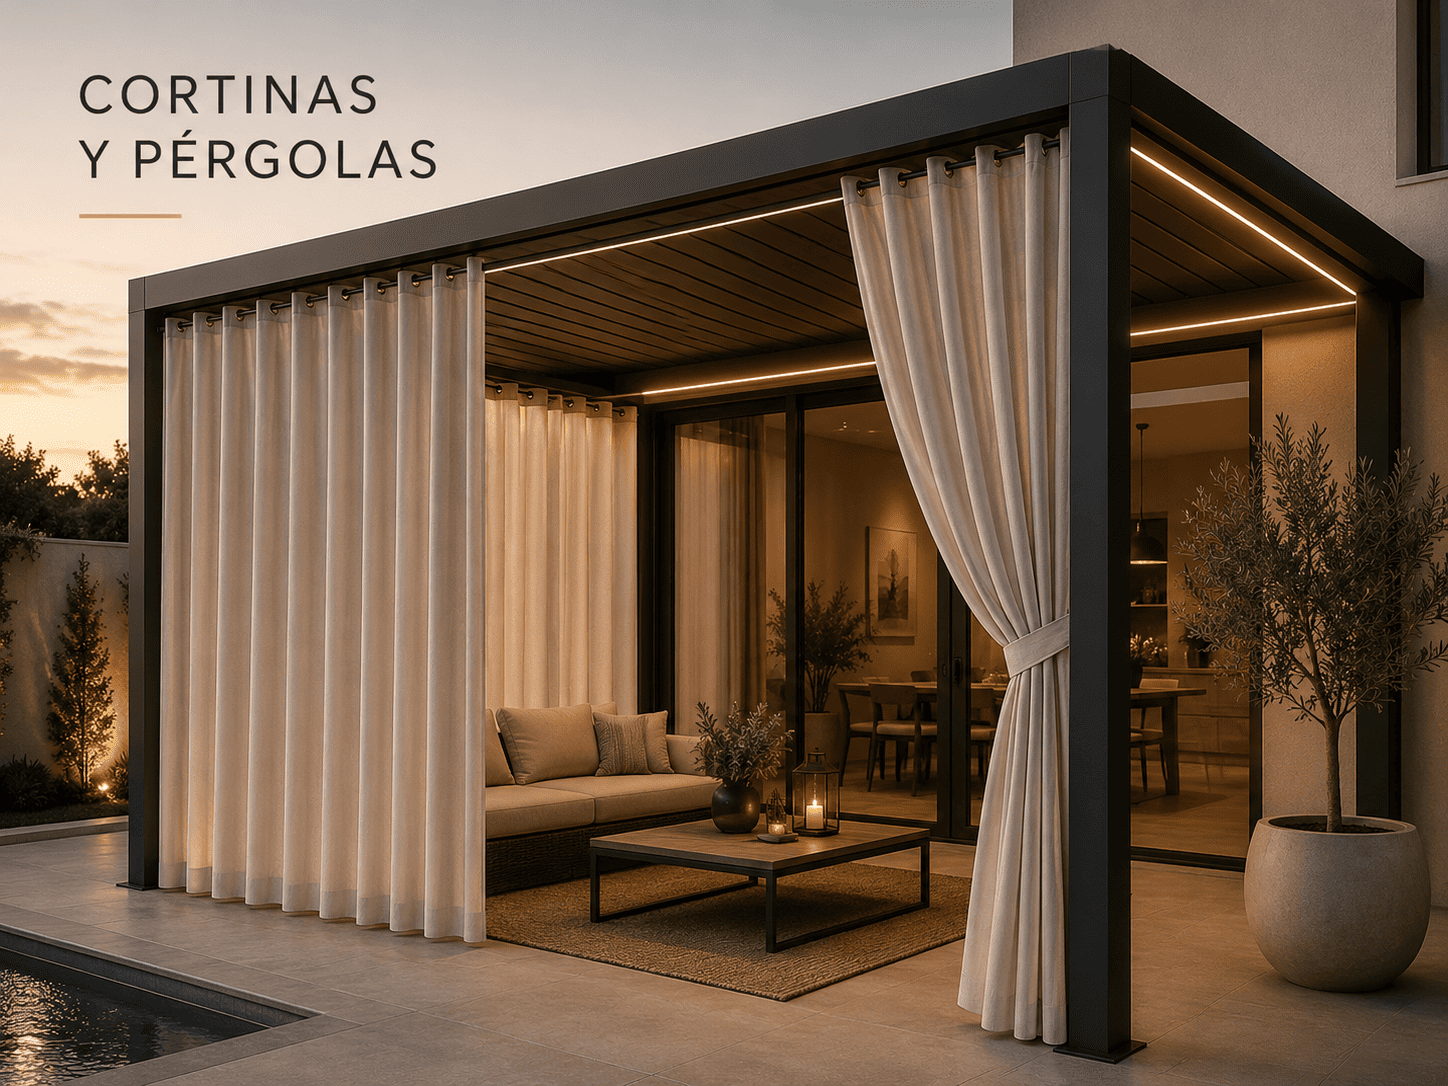
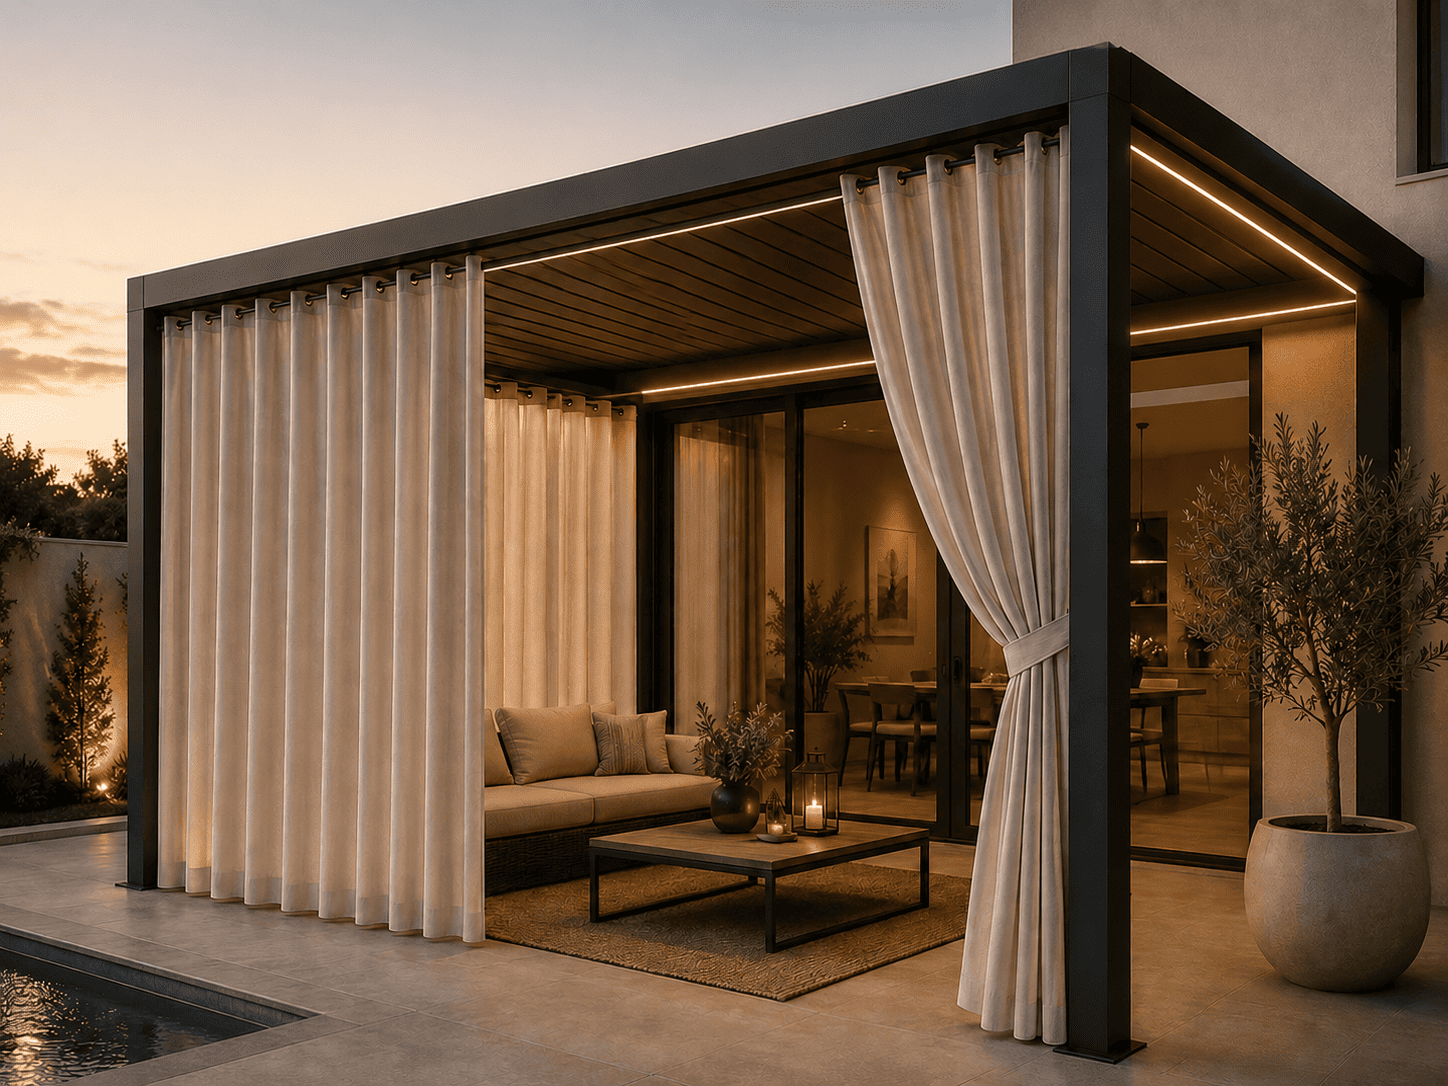
chore: alterações em algumas imagens

diff --git a/components/HeroCarousel.tsx b/components/HeroCarousel.tsx
@@ -3,8 +3,8 @@ import { useState, useEffect, useRef } from "react";
 import { useTranslation } from "react-i18next";
 
 const SLIDES_METADATA = [
-  { image: "/images/010-image.jpg" },
-  { image: "/images/002-image.jpg" },
+  { image: "/blog/006-blog.png" },
+  { image: "/images/021-image.png" },
   { image: "/images/003-image.jpg" },
   { image: "/images/007-image.jpg" },
   { image: "/images/013-image.jpg" },
